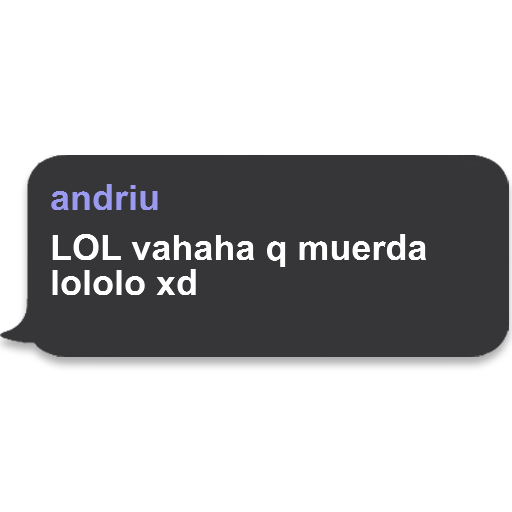
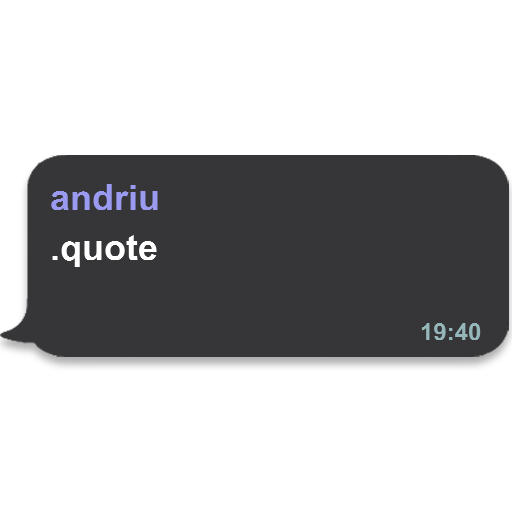
huuuuuge improvements

Changed region(s): [[0.0938, 0.4375, 0.8438, 0.5938], [0.8125, 0.625, 0.9375, 0.6875]]

diff --git a/index.js b/index.js
@@ -20,7 +20,18 @@ const client = new Client({
 const config = require('./config/config.json');
 const template = "./files/template_msg.png";
 const filepath = "./files/output.png";
-const font = PImage.registerFont("./files/arial_bold.ttf","ArialBlack");
+const font = PImage.registerFont("./files/arial_bold.ttf","ArialBlack",);
+const menu = fs.readFileSync("./files/menu.txt");
+
+function getTextWidth(text, font) {
+    // if given, use cached canvas for better performance
+    // else, create new canvas
+    var canvas = getTextWidth.canvas || (getTextWidth.canvas = document.createElement("canvas"));
+    var context = canvas.getContext("2d");
+    context.font = font;
+    var metrics = context.measureText(text);
+    return metrics.width;
+};
 
 client.on('qr', (qr) => {
     console.log(`[${moment().tz(config.timezone).format('HH:mm:ss')}] Scan the QR below : `);
@@ -42,6 +53,7 @@ client.on('ready', () => {
 });
 
 client.on('message', async (message) => {
+    console.log(message.body.substring(0,5))
     const Chat = await message.getChat();
     if (message.body == ".s" && Chat.isGroup) {
         if (message.type == "image") {
@@ -116,19 +128,26 @@ client.on('message', async (message) => {
                 message.react("❌");
             }
         }
-    } else if (message.body == ".quote" && Chat.isGroup && message.hasQuotedMsg) {
-        const quotedMsg = await message.getQuotedMessage();
-        if (quotedMsg.type == "chat") {
+    } else if (message.body.substring(0,6) == ".quote" && Chat.isGroup && message.hasQuotedMsg) {
+        const quotedMsg = await message.getQuotedMessage(); 
+        if (quotedMsg.type == "chat" && message.body == ".quote") {
             try {
                 Chat.sendStateTyping();
                 const authorID = await quotedMsg.getContact();
+                const msgTime = message.timestamp * 1000;
+                var d = new Date(msgTime);
+                const hours = d.getHours();
+                const minutes = d.getMinutes();
+                const time = hours + ":" + String(minutes).padStart(2, "0");
                 const msgAuthor = authorID.pushname;
                 const msgBody = quotedMsg.body;
                 const maxLength = 21;
                 let partOne = " ";
                 let partTwo = " ";
                 let partThree = " ";
-                
+
+
+
                 const warpedText = wordwrap.wrap(msgBody, { width: maxLength });
                 const splitText = warpedText.split("\n");
 
@@ -152,9 +171,77 @@ client.on('message', async (message) => {
                         ctx.font = "36pt ArialBlack";
                         ctx.fillText(msgAuthor, 50, 210);
                         ctx.fillStyle = "#ffffff";
-                        ctx.fillText(partOne, 50, 260);
-                        ctx.fillText(partTwo, 50, 295);     
-                        ctx.fillText(partThree, 50, 330);
+                        ctx.font = "36pt Arial";
+                        ctx.fillText(partOne, 50, 260, 440);
+                        ctx.fillText(partTwo, 50, 295, 440);     
+                        ctx.fillText(partThree, 50, 330, 440);
+                        ctx.fillStyle = "#95B7B9";
+                        ctx.font = "24pt Arial";
+                        ctx.fillText(time, 420, 340);
+                        PImage.encodePNGToStream(img, fs.createWriteStream(filepath)).then(()=>{
+                            const media = MessageMedia.fromFilePath(filepath);
+                            client.sendMessage(message.from, media, {
+                                sendMediaAsSticker: true,
+                                stickerName: config.name, // Sticker Name = Edit in 'config/config.json'
+                                stickerAuthor: `made with andrew's bot` // Sticker Author = Your Whatsapp BOT Number
+                            }).then(() => {
+                                Chat.clearState();
+                                quotedMsg.react("✅");
+                                message.react("✅");
+                            });
+                        });
+                    });
+                });
+            } catch {
+                Chat.clearState();
+                message.react("❌");
+            }
+        } else if (quotedMsg.type == "chat" && message.body != ".quote") {
+
+            try {
+                let msgAuthor;
+                Chat.sendStateTyping();
+                
+                if (message.body.substring(7,8) == "-") {
+                    msgAuthor = " ";
+                } else {
+                    msgAuthor = message.body.substring(7);
+                }
+
+                const msgBody = quotedMsg.body;
+                const maxLength = 21;
+                let partOne = " ";
+                let partTwo = " ";
+                let partThree = " ";
+
+                
+
+                const warpedText = wordwrap.wrap(msgBody, { width: maxLength });
+                const splitText = warpedText.split("\n");
+
+                if (splitText[0] != undefined) {
+                    partOne = splitText[0];
+
+                    if (splitText[1] != undefined) {
+                        partTwo = splitText[1];
+
+                        if (splitText[2] != undefined) {
+                            partThree = splitText[2];
+
+                        }
+                    }
+                }
+
+                font.load(() => {
+                    PImage.decodePNGFromStream(fs.createReadStream(template)).then((img) => {
+                        const ctx = img.getContext("2d");
+                        ctx.fillStyle = "#9a9af1";
+                        ctx.font = "36pt ArialBlack";
+                        ctx.fillText(msgAuthor, 50, 210);
+                        ctx.fillStyle = "#ffffff";
+                        ctx.fillText(partOne, 50, 260, 440);
+                        ctx.fillText(partTwo, 50, 295, 440);     
+                        ctx.fillText(partThree, 50, 330, 440);
                         PImage.encodePNGToStream(img, fs.createWriteStream(filepath)).then(()=>{
                             const media = MessageMedia.fromFilePath(filepath);
                             client.sendMessage(message.from, media, {
@@ -176,6 +263,8 @@ client.on('message', async (message) => {
         } else {
             message.react("❌");
         }
+    } else if (message.body == ".menu") {
+        client.sendMessage(message.from, menu.toString());
     } else {
         client.getChatById(message.id.remote).then(async (chat) => {
             await chat.sendSeen();
